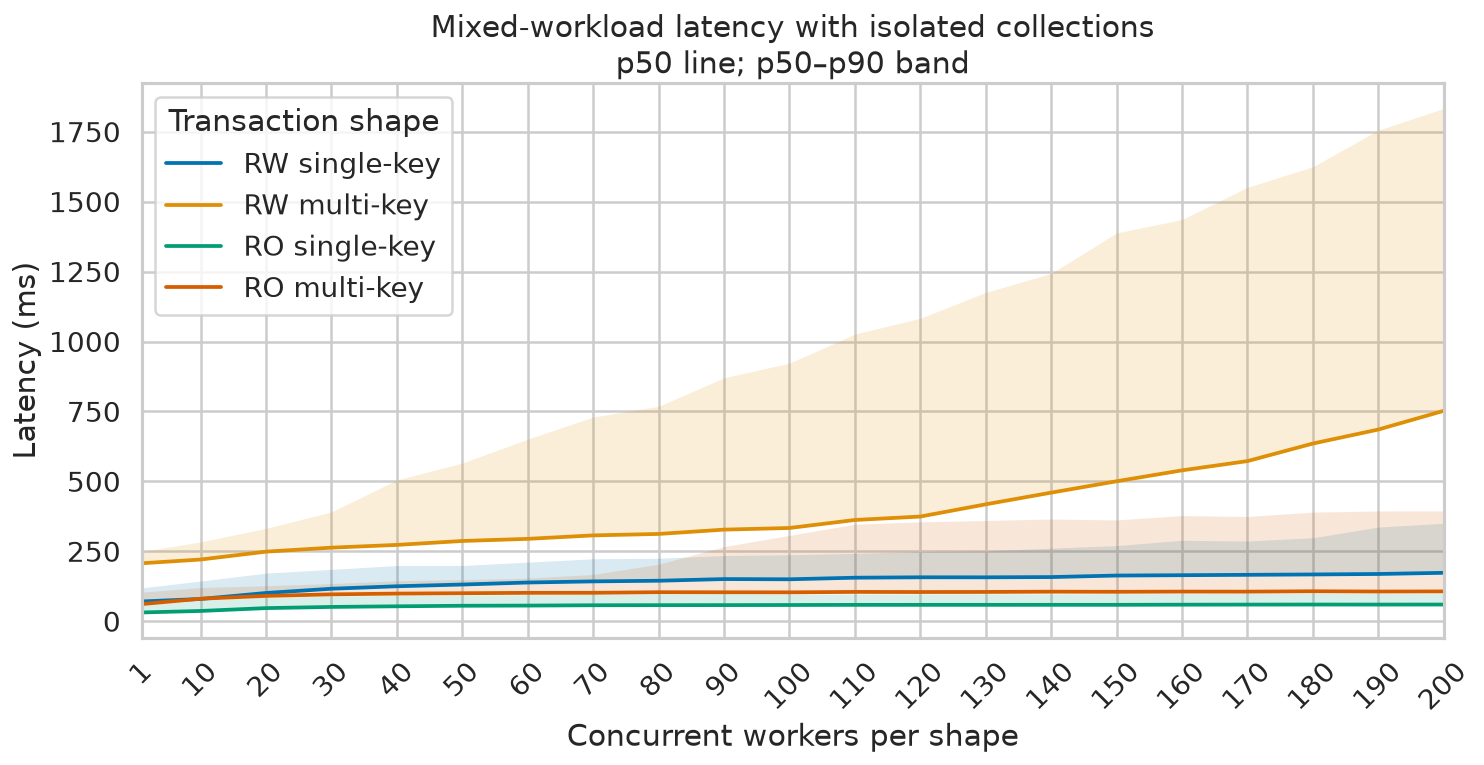
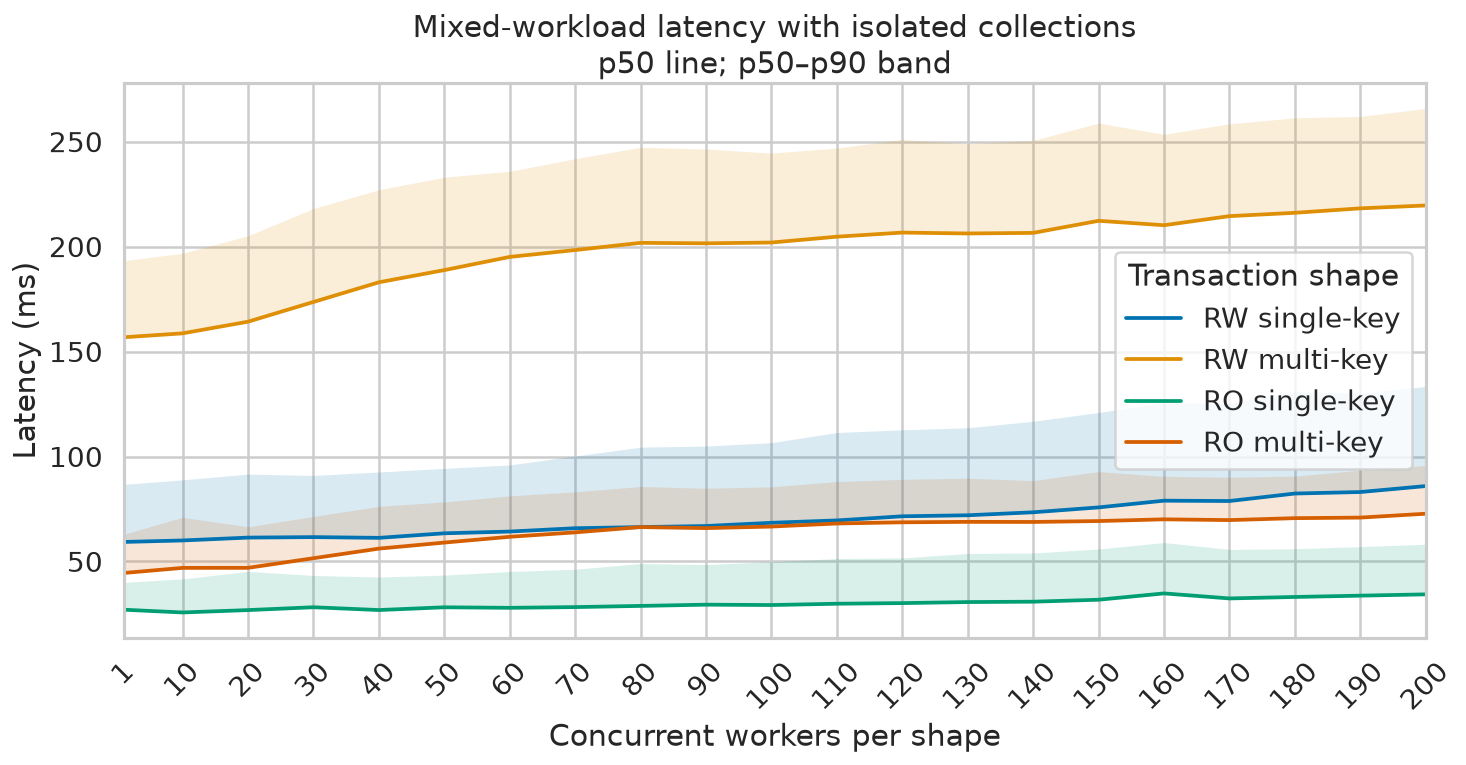
docs: update canonical plots

diff --git a/README.md b/README.md
@@ -220,13 +220,12 @@ workers:
 
 ![](docs/img/tx-throughput.png)
 
-As you can see, median throughput increases almost linearly for single-key
-reads. It reaches 2.5k transactions per second with 200 workers per shape (800
-workers in total).
+As you can see, median throughput increases almost linearly for all shapes,
+although more slowly for multi-key read-write transactions. It reaches 5k+
+transactions per second with 200 workers per shape (800 workers in total).
 
-The multi-key read-modify-write shape reaches the modeled S3 write limit for its
-collection prefixes. More independent collections can add more provider
-partitions.
+Increase in probability of conflicts between transactions, as concurrency goes
+up, causes slight dips in throughput for some workers.
 
 ### Latency
 
